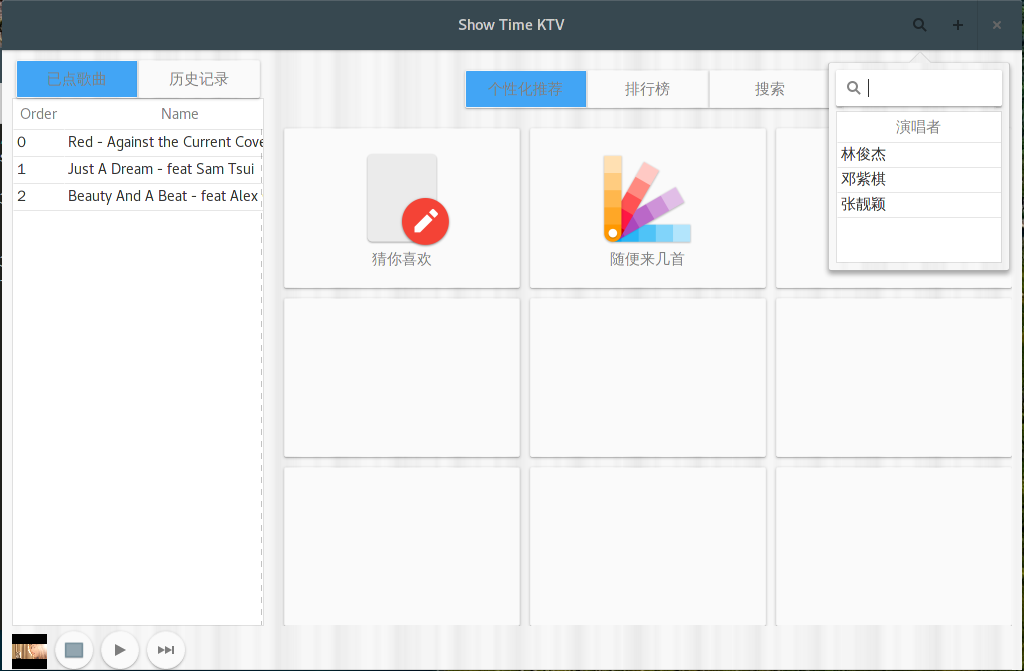
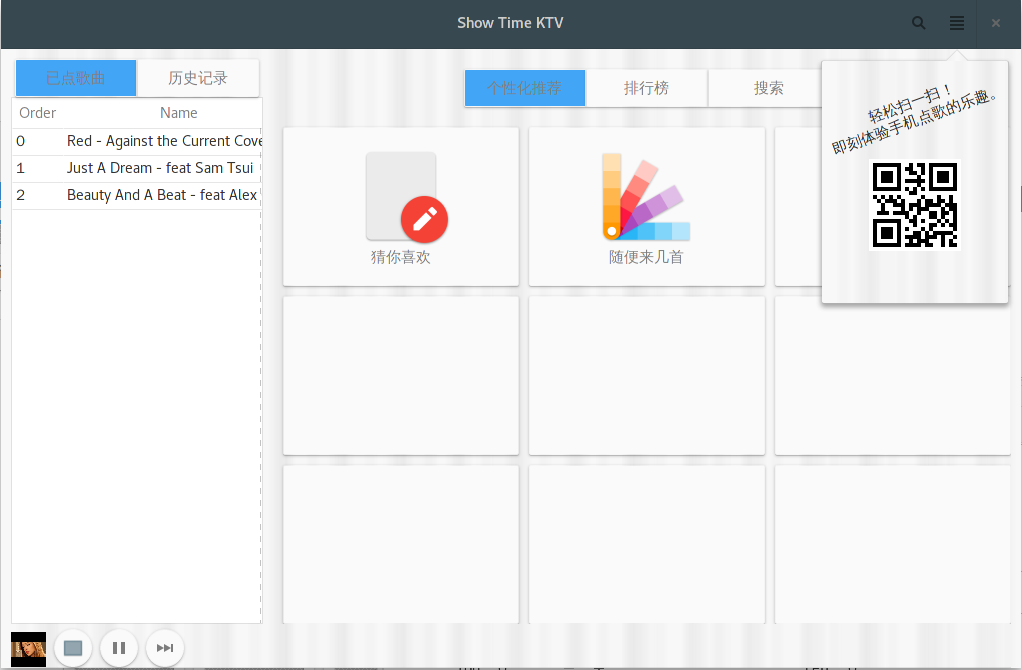
Finish QR display

diff --git a/SRC/CLI/stv.py b/SRC/CLI/stv.py
@@ -135,7 +135,9 @@ class stv_signal_handler(object):
     def stv_find(self, *args):
         app.find_menu.menu.popup()
 
-
+    def stv_qr_show(self, *args):
+        app.qr_img.set_from_file('/tmp/stv_qr.png')
+        app.qr_menu.menu.popup()
 
 class stv_popover(object):
     def __init__(self, menu):
@@ -191,6 +193,7 @@ class stv_class(object):
         self.play_menu         = stv_popover(self.builder.get_object('play_menu'))
         self.top_menu          = stv_popover(self.builder.get_object('top_menu'))
         self.find_menu         = stv_popover(self.builder.get_object('find_menu'))
+        self.qr_menu           = stv_popover(self.builder.get_object('qr_menu'))
 
         self.titlebar          = self.builder.get_object('headerbar')
         self.window            = self.builder.get_object('window')
@@ -217,8 +220,11 @@ class stv_class(object):
         self.disp_area         = self.builder.get_object('disp_area')
         self.bt_mv_back        = self.builder.get_object('bt_mv_back')
         self.bt_play           = self.builder.get_object('bt_play')
+        self.bt_qr             = self.builder.get_object('bt_qr')
+
         self.play_img          = self.builder.get_object('bt_play_img')
         self.pause_img         = self.builder.get_object('bt_pause_img')
+        self.qr_img            = self.builder.get_object('qr_img')
 
         self.player            = stv_video_player_class(self.handler, self.handler.stv_mv_next)
 

diff --git a/SRC/SVR/ktv.py b/SRC/SVR/ktv.py
@@ -114,7 +114,7 @@ def app_playing_list_operations_handler(ope, seq, cid, sid):
     return Response(response=result, status=200, mimetype="application/json")
 
 @stv.route('/app/playing/fetch/<int:seq>/<int:cid>', methods=['GET'])
-def app_playing_list_fetch_handler(ope, seq, cid, sid):
+def app_playing_list_fetch_handler(seq, cid):
     retval = svr.check_seq(cid, seq)
     if not retval:
         result = json.dumps((('Offline')))
